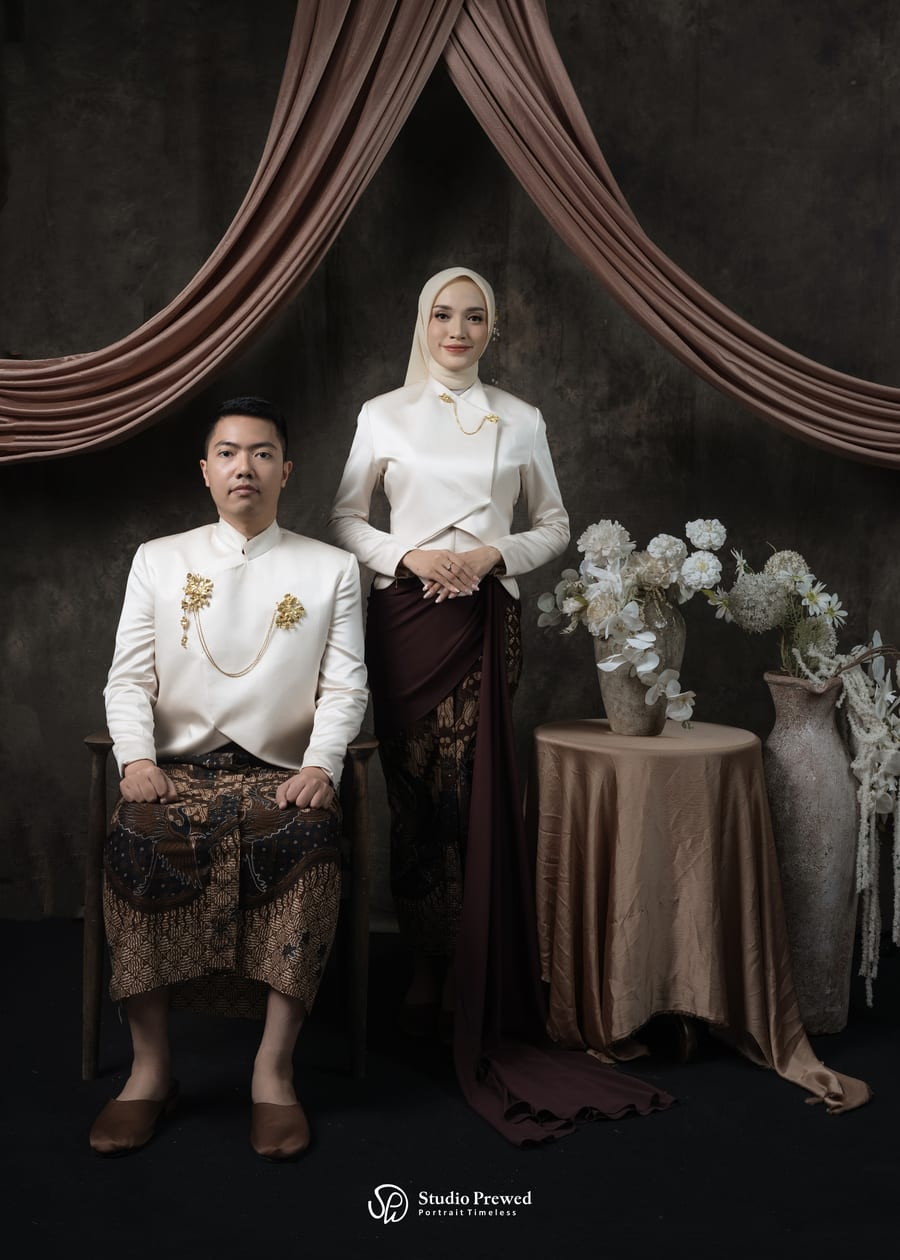
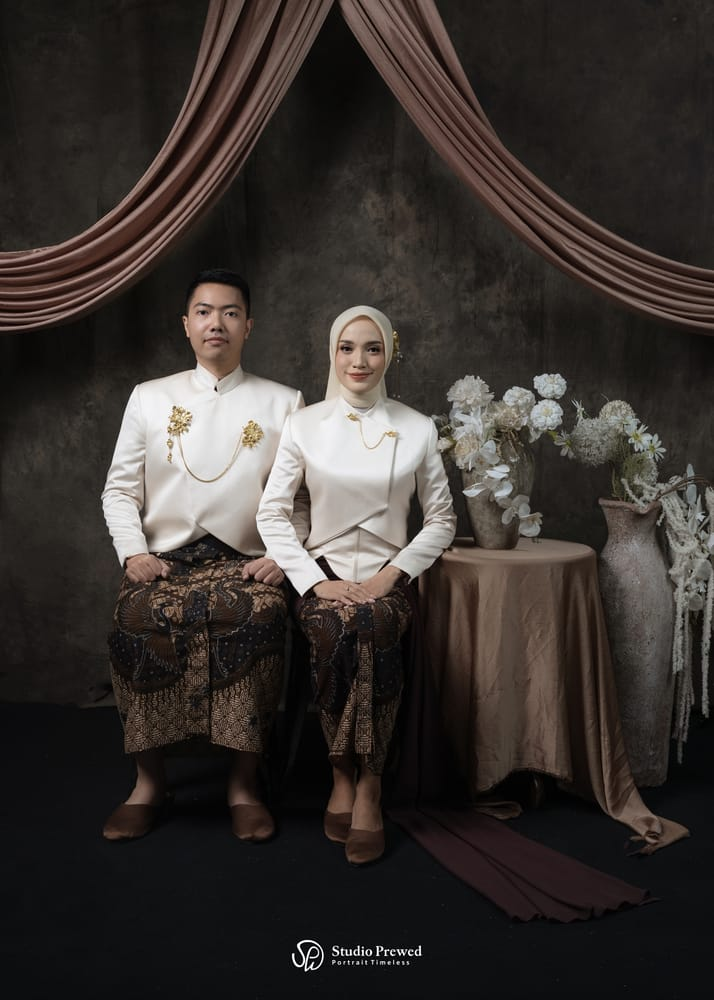
- Add rsvp functions, - Swap welcome photo with gallery no 6

diff --git a/src/components/Rsvp.jsx b/src/components/Rsvp.jsx
@@ -1,22 +1,45 @@
 import { useState } from 'react'
+import { config } from '../config'
 import Divider from './Divider'
 
 const KEY = 'rsvp_ilham_devi'
 const load = () => JSON.parse(localStorage.getItem(KEY) || '[]')
+const ENDPOINT = config.rsvp?.endpoint || ''
 
 export default function Rsvp() {
   const [entries, setEntries] = useState(load)
   const [submitted, setSubmitted] = useState(false)
+  const [sending, setSending] = useState(false)
   const [form, setForm] = useState({ name: '', attend: '', guests: '1', message: '' })
 
   const update = (e) => setForm({ ...form, [e.target.name]: e.target.value })
 
-  const handleSubmit = (e) => {
+  const handleSubmit = async (e) => {
     e.preventDefault()
+    setSending(true)
     const entry = { ...form, at: new Date().toISOString() }
+
+    // Simpan lokal supaya tamu langsung melihat ucapannya tampil.
     const next = [...load(), entry]
     localStorage.setItem(KEY, JSON.stringify(next))
     setEntries(next)
+
+    // Kirim ke Google Sheets lewat Apps Script (jika endpoint sudah diisi).
+    // mode:'no-cors' + text/plain menghindari preflight CORS Apps Script.
+    if (ENDPOINT) {
+      try {
+        await fetch(ENDPOINT, {
+          method: 'POST',
+          mode: 'no-cors',
+          headers: { 'Content-Type': 'text/plain;charset=utf-8' },
+          body: JSON.stringify(entry),
+        })
+      } catch {
+        // Diabaikan: data tetap aman tersimpan lokal di perangkat tamu.
+      }
+    }
+
+    setSending(false)
     setSubmitted(true)
   }
 
@@ -29,9 +52,11 @@ export default function Rsvp() {
         RSVP
       </h2>
       <Divider />
-      <p className="muted" style={{ color: 'var(--cream)', opacity: 0.85, fontSize: 14 }}>
-        Mohon konfirmasi kehadiran Anda. Doa &amp; ucapan juga sangat kami nantikan.
-      </p>
+      {!submitted && (
+        <p className="muted" style={{ color: 'var(--cream)', opacity: 0.85, fontSize: 14 }}>
+          Mohon konfirmasi kehadiran Anda. Doa &amp; ucapan juga sangat kami nantikan.
+        </p>
+      )}
 
       {!submitted ? (
         <form className="form" onSubmit={handleSubmit}>
@@ -56,7 +81,9 @@ export default function Rsvp() {
           <label htmlFor="rMsg">Ucapan &amp; Doa</label>
           <textarea id="rMsg" name="message" placeholder="Tuliskan ucapan & doa restu Anda..." value={form.message} onChange={update} />
 
-          <button className="btn btn-solid" type="submit">Kirim Konfirmasi</button>
+          <button className="btn btn-solid" type="submit" disabled={sending}>
+            {sending ? 'Mengirim...' : 'Kirim Konfirmasi'}
+          </button>
         </form>
       ) : (
         <div className="rsvp-thanks">

diff --git a/src/config.js b/src/config.js
@@ -51,6 +51,13 @@ export const config = {
     licenseLabel: 'CC BY 4.0',
   },
 
+  rsvp: {
+    // Web App URL hasil deploy Google Apps Script (berakhiran /exec).
+    // Pastikan deployment di-set "Who has access: Anyone".
+    endpoint:
+      'https://script.google.com/macros/s/AKfycbzvxWA1aChoEI_dRqOiRp0BR47ZvuUJncJR1cWZplGCIqLTtn8lEC0vWJmMswe8rxBA3Q/exec',
+  },
+
   verse: {
     text:
       'Dan di antara tanda-tanda kekuasaan-Nya ialah Dia menciptakan untukmu pasangan hidup dari jenismu sendiri, supaya kamu cenderung dan merasa tenteram kepadanya, dan dijadikan-Nya di antaramu rasa kasih dan sayang.',